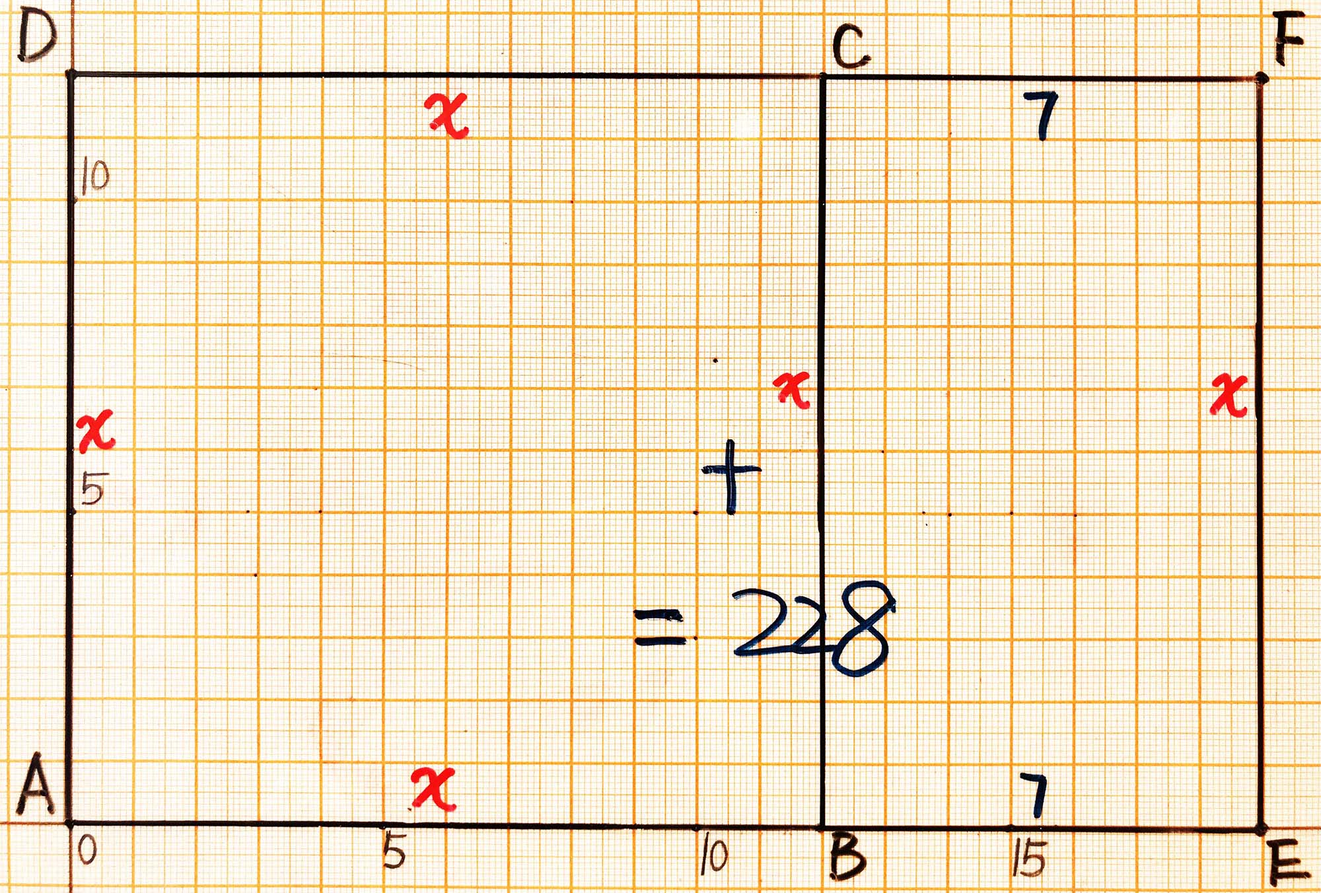
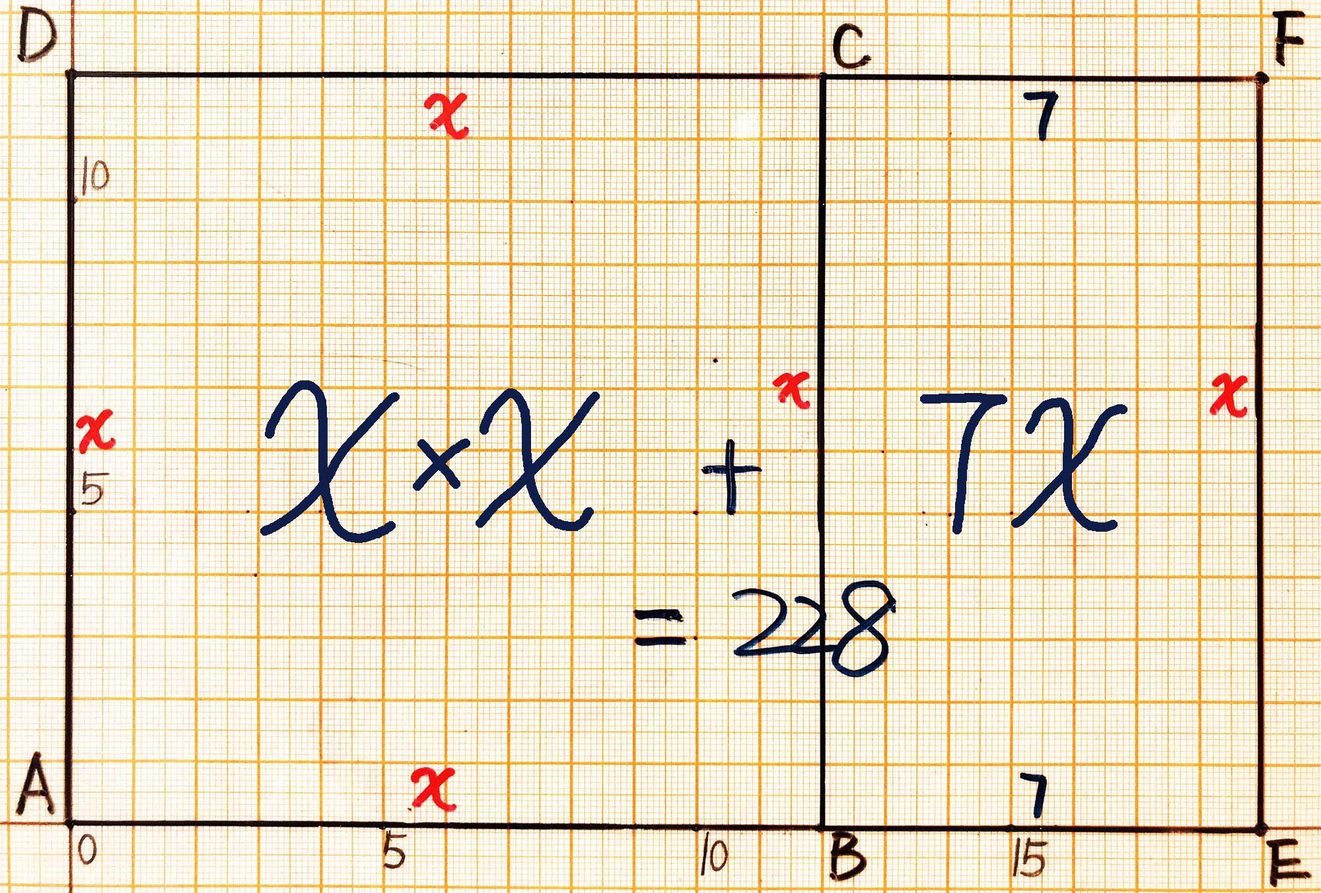
revise

diff --git a/chapters/函数和极限/花拉子米的《代数学》中典型的推演实验/问题5.md b/chapters/函数和极限/花拉子米的《代数学》中典型的推演实验/问题5.md
@@ -63,11 +63,12 @@
 
 ![](/images/函数和极限/花拉子米的《代数学》中典型的推演实验/问题5/1a2.jpg)
 
-3. 擦去所有3cm和7cm的标记，即代表着不知道相等长度的AB, BC, CD, AD和EF的具体的长度数值，也不知道相等长度的AE和DF的具体的长度数值。同时已经预先知道 ▭ AEFD的面积为21 cm<sup>2</sup> (即: 21个1cm<sup>2</sup>的 □ 格子)和 ▭ BCFE的面积 =  □ ABCD的面积 + ▭ ADFE的面积。即: 10×x = x×x + 21。  
+3. 擦去所有3cm和7cm的标记，即代表着不知道相等长度的AB, BC, CD, AD和EF的具体的长度数值，也不知道相等长度的AE和DF的具体的长度数值。
 
 ![](/images/函数和极限/花拉子米的《代数学》中典型的推演实验/问题5/1a3.jpg)
 
-4. 假设相等长度的AB, BC, CD, AD和EF的具体的长度数值为x, 在线段AB, BC, CD, AD和EF的边上写上x。
+4. 假设相等长度的AB, BC, CD, AD和EF的具体的长度数值为x, 在线段AB, BC, CD, AD和EF的边上写上x。同时已经预先知道 ▭ AEFD的面积为21 cm<sup>2</sup> (即: 21个1cm<sup>2</sup>的 □ 格子)和 ▭ BCFE的面积 =  □ ABCD的面积 + ▭ ADFE的面积。即: 10×x = x×x + 21。 
+
 ![](/images/函数和极限/花拉子米的《代数学》中典型的推演实验/问题5/1a4.jpg)
 
 5. 取线段BE和CF的中点G和H, 以GE和FE为边，构造变长为GE = 10/2 = 5cm的 □ GEIL。然后将 ▭ ADHG 移到  ▭ FIJK的位置上。
@@ -80,7 +81,7 @@
 
 	=> HL = JK = 5 - x = JL = KH
 
-	=> HLKH是 □。
+	=> KJLH是 □。
 
 ![](/images/函数和极限/花拉子米的《代数学》中典型的推演实验/问题5/1a5.jpg)
 
@@ -130,11 +131,11 @@
 
 ![](/images/函数和极限/花拉子米的《代数学》中典型的推演实验/问题5/1a8.jpg)
 
-3. 擦去所有7cm和3cm的标记，即代表着不知道相等长度的AB, BC, CD, AD和EF的具体的长度数值，也不知道相等长度的AE和DF的具体的长度数值。同时已经预先知道 ▭ AEFD的面积为21 cm<sup>2</sup> (即: 21个1cm<sup>2</sup>的 □ 格子)和 ▭ BCFE的面积 =  □ ABCD的面积 + ▭ ADFE的面积。即: 10×x = x×x + 21。  
+3. 擦去所有7cm和3cm的标记，即代表着不知道相等长度的AB, BC, CD, AD和EF的具体的长度数值，也不知道相等长度的AE和DF的具体的长度数值。
 
 ![](/images/函数和极限/花拉子米的《代数学》中典型的推演实验/问题5/1a9.jpg)
 
-4. 假设相等长度的AB, BC, CD, AD和EF的具体的长度数值为x, 在线段AB, BC, CD, AD和EF的边上写上x。
+4. 假设相等长度的AB, BC, CD, AD和EF的具体的长度数值为x, 在线段AB, BC, CD, AD和EF的边上写上x。同时已经预先知道 ▭ AEFD的面积为21 cm<sup>2</sup> (即: 21个1cm<sup>2</sup>的 □ 格子)和 ▭ BCFE的面积 =  □ ABCD的面积 + ▭ ADFE的面积。即: 10×x = x×x + 21。  
 
 ![](/images/函数和极限/花拉子米的《代数学》中典型的推演实验/问题5/1a10.jpg)
 

diff --git a/chapters/函数和极限/花拉子米的《代数学》中典型的推演实验/问题6.md b/chapters/函数和极限/花拉子米的《代数学》中典型的推演实验/问题6.md
@@ -52,10 +52,11 @@
 
 ![](/images/函数和极限/花拉子米的《代数学》中典型的推演实验/问题6/1a2.jpg)
 
-3. 擦去所有10cm的标记，即代表着不知道相等长度的AB, BC, CD, AD和EF的具体的长度数值。同时已经预先知道 ▭ DEFC的面积为20 cm<sup>2</sup> (即: 20个1cm<sup>2</sup>的 □ 格子)和 □ ABCD的面积 = ▭ ABFE的面积 + ▭ DEFC的面积。即: x×x = 8x + 20。  
+3. 擦去所有10cm的标记，即代表着不知道相等长度的AB, BC, CD, AD和EF的具体的长度数值。
+
 ![](/images/函数和极限/花拉子米的《代数学》中典型的推演实验/问题6/1a3.jpg)
 
-4. 假设相等长度的AB, BC, CD, AD和EF的具体的长度数值为x, 在线段AB, BC, CD, AD和EF的边上写上x。ED = CF = x - 8 (cm)。
+4. 假设相等长度的AB, BC, CD, AD和EF的具体的长度数值为x, 在线段AB, BC, CD, AD和EF的边上写上x。ED = CF = x - 8 (cm)。同时已经预先知道 ▭ DEFC的面积为20 cm<sup>2</sup> (即: 20个1cm<sup>2</sup>的 □ 格子)和 □ ABCD的面积 = ▭ ABFE的面积 + ▭ DEFC的面积。即: x×x = 8x + 20。  
 ![](/images/函数和极限/花拉子米的《代数学》中典型的推演实验/问题6/1a4.jpg)
 
 5. 取线段BF的中点G, 构造边长为8/2=4cm的 □ FGIH。

diff --git a/chapters/函数和极限/花拉子米的《代数学》中典型的推演实验/问题4.md b/chapters/函数和极限/花拉子米的《代数学》中典型的推演实验/问题4.md
@@ -56,10 +56,12 @@
  
 ![](/images/函数和极限/花拉子米的《代数学》中典型的推演实验/问题4/1a2.jpg) 
 
-3. 擦去所有12cm的标记，即代表着不知道相等长度的AB, BC, CD, AD和EF的具体的长度数值。同时已经预先知道 □ ABCD的面积和 ▭ BCFE的面积之和为228 cm<sup>2</sup> (即: 228个1cm<sup>2</sup>的 □ 格子)。
+3. 擦去所有12cm的标记，即代表着不知道相等长度的AB, BC, CD, AD和EF的具体的长度数值。
+
 ![](/images/函数和极限/花拉子米的《代数学》中典型的推演实验/问题4/1a3.jpg)
 
-4. 假设相等长度的AB, BC, CD, AD和EF的具体的长度数值为x, 在线段AB, BC, CD, AD和EF的边上写上x。
+4. 假设相等长度的AB, BC, CD, AD和EF的具体的长度数值为x, 在线段AB, BC, CD, AD和EF的边上写上x。同时已经预先知道 □ ABCD的面积和 ▭ BCFE的面积之和为228 cm<sup>2</sup> (即: 228个1cm<sup>2</sup>的 □ 格子)。即: x×x + 7x = 228。 
+
 ![](/images/函数和极限/花拉子米的《代数学》中典型的推演实验/问题4/1a4.jpg)
 
 -----------------------------
